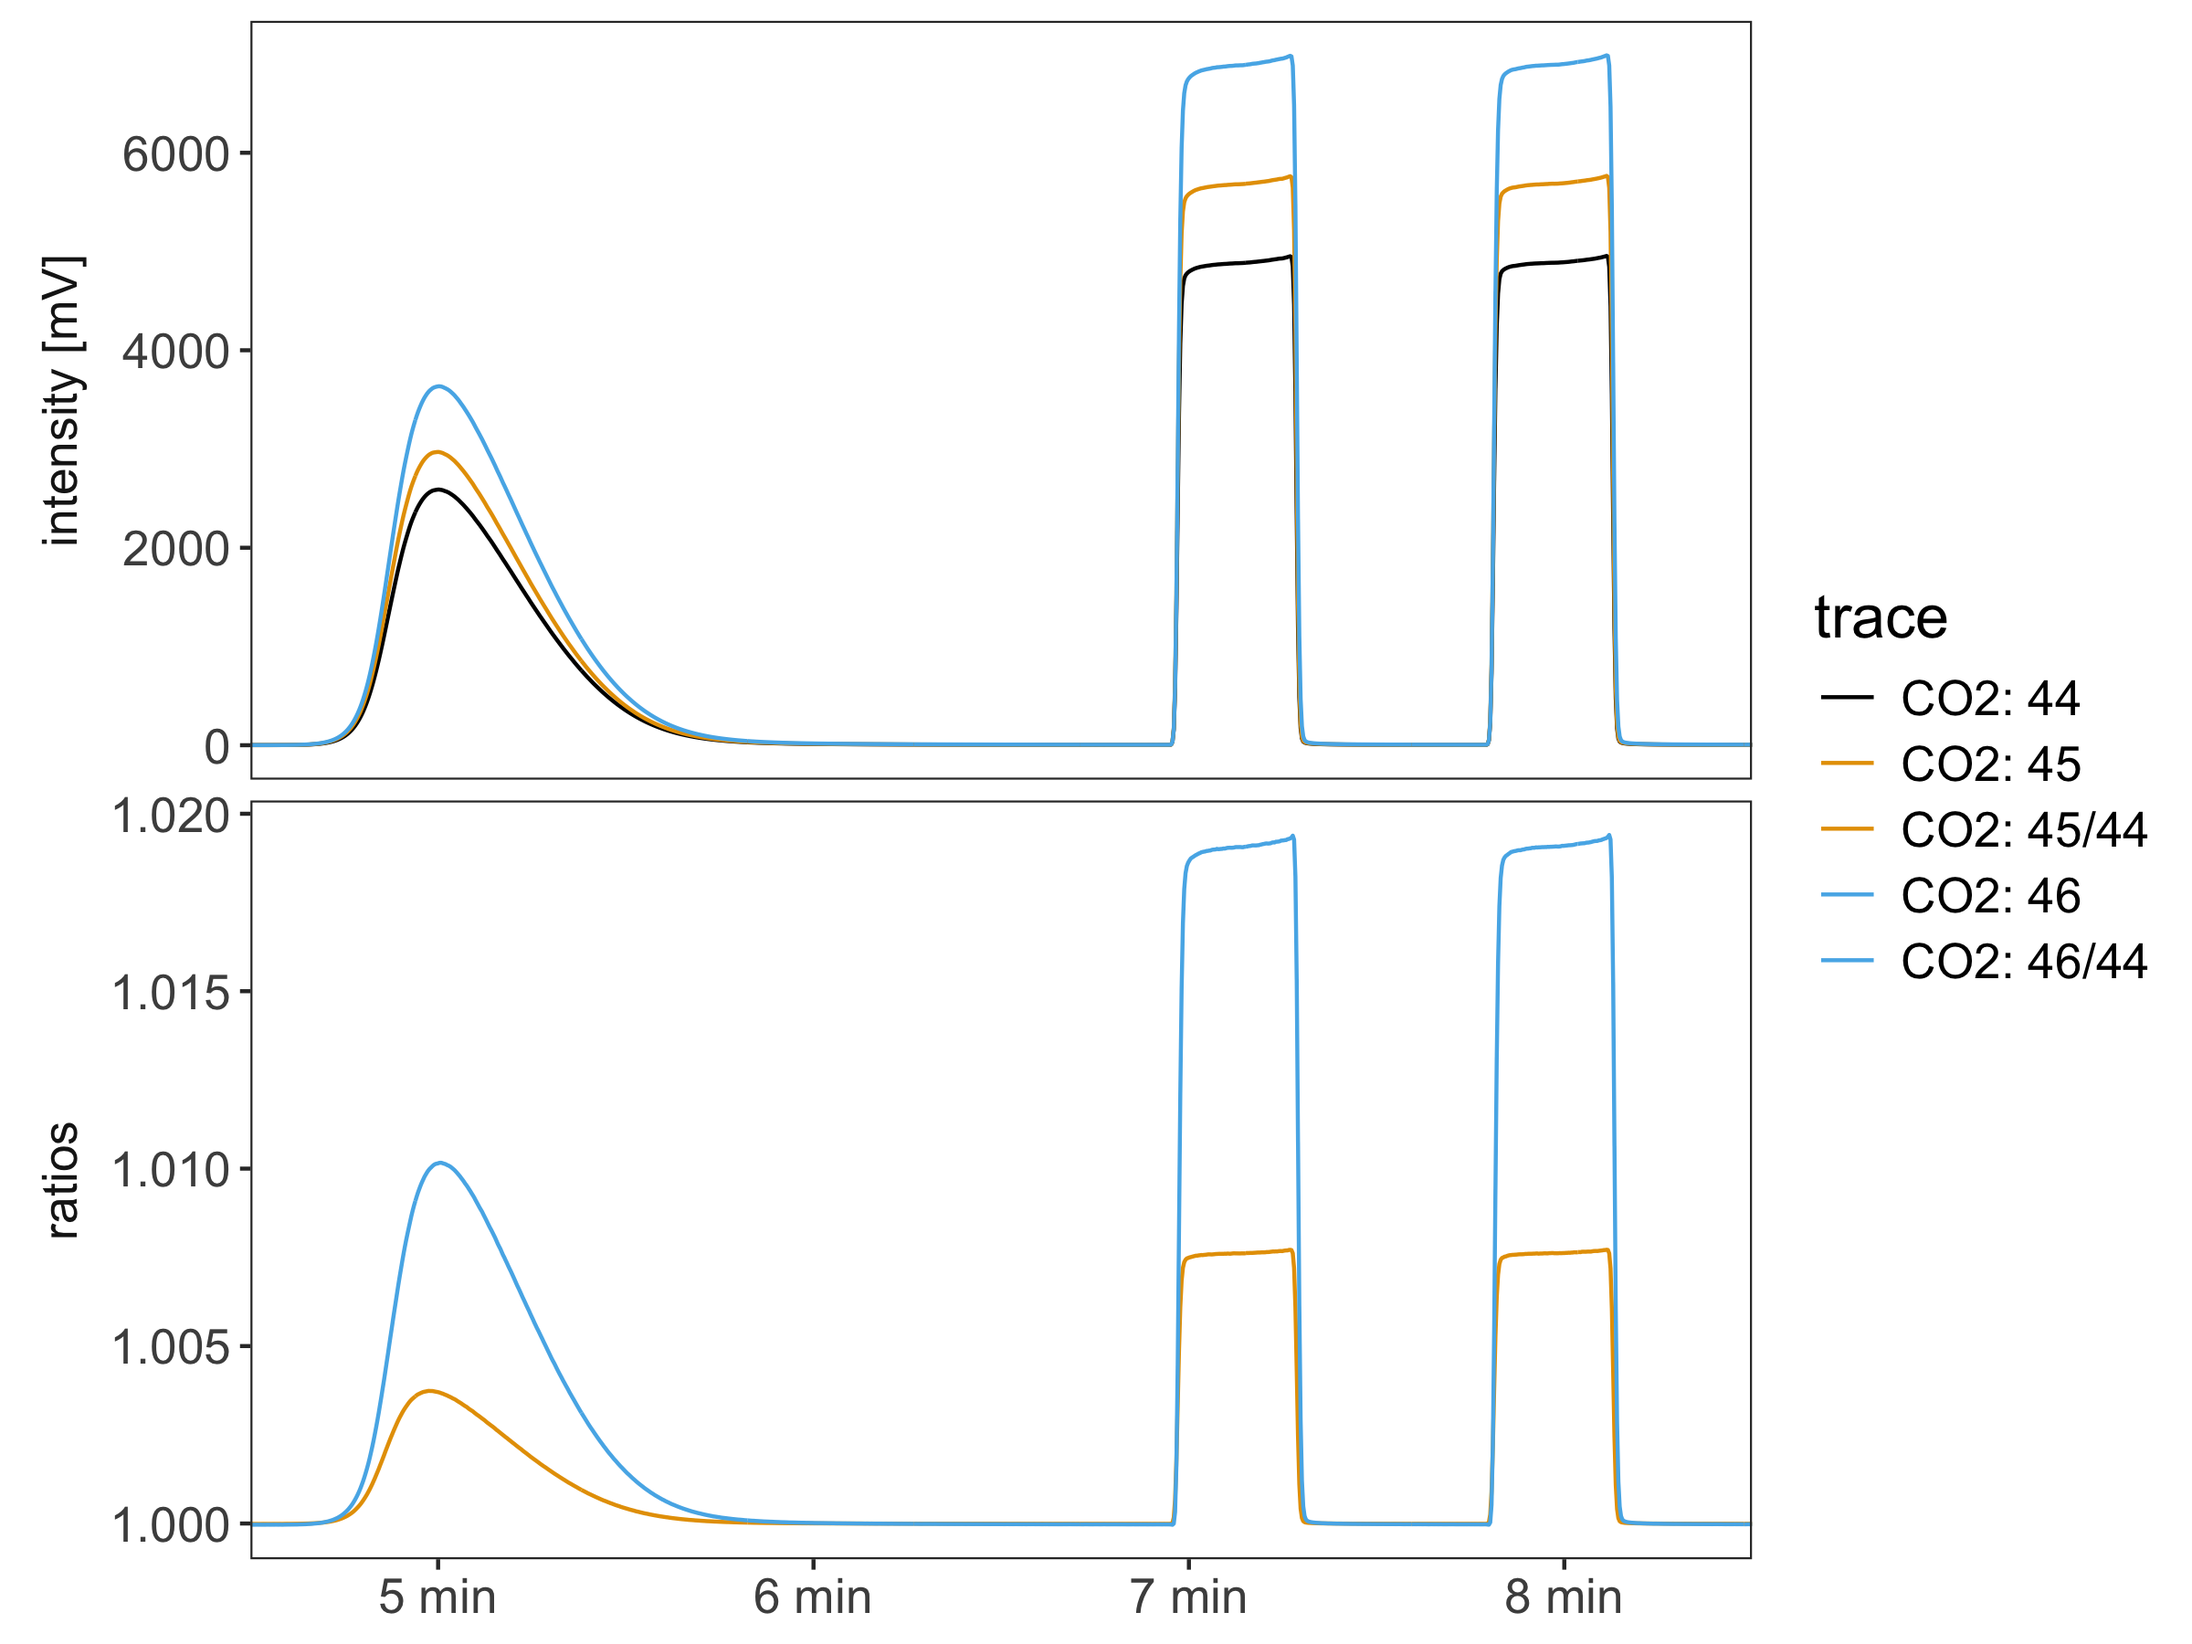
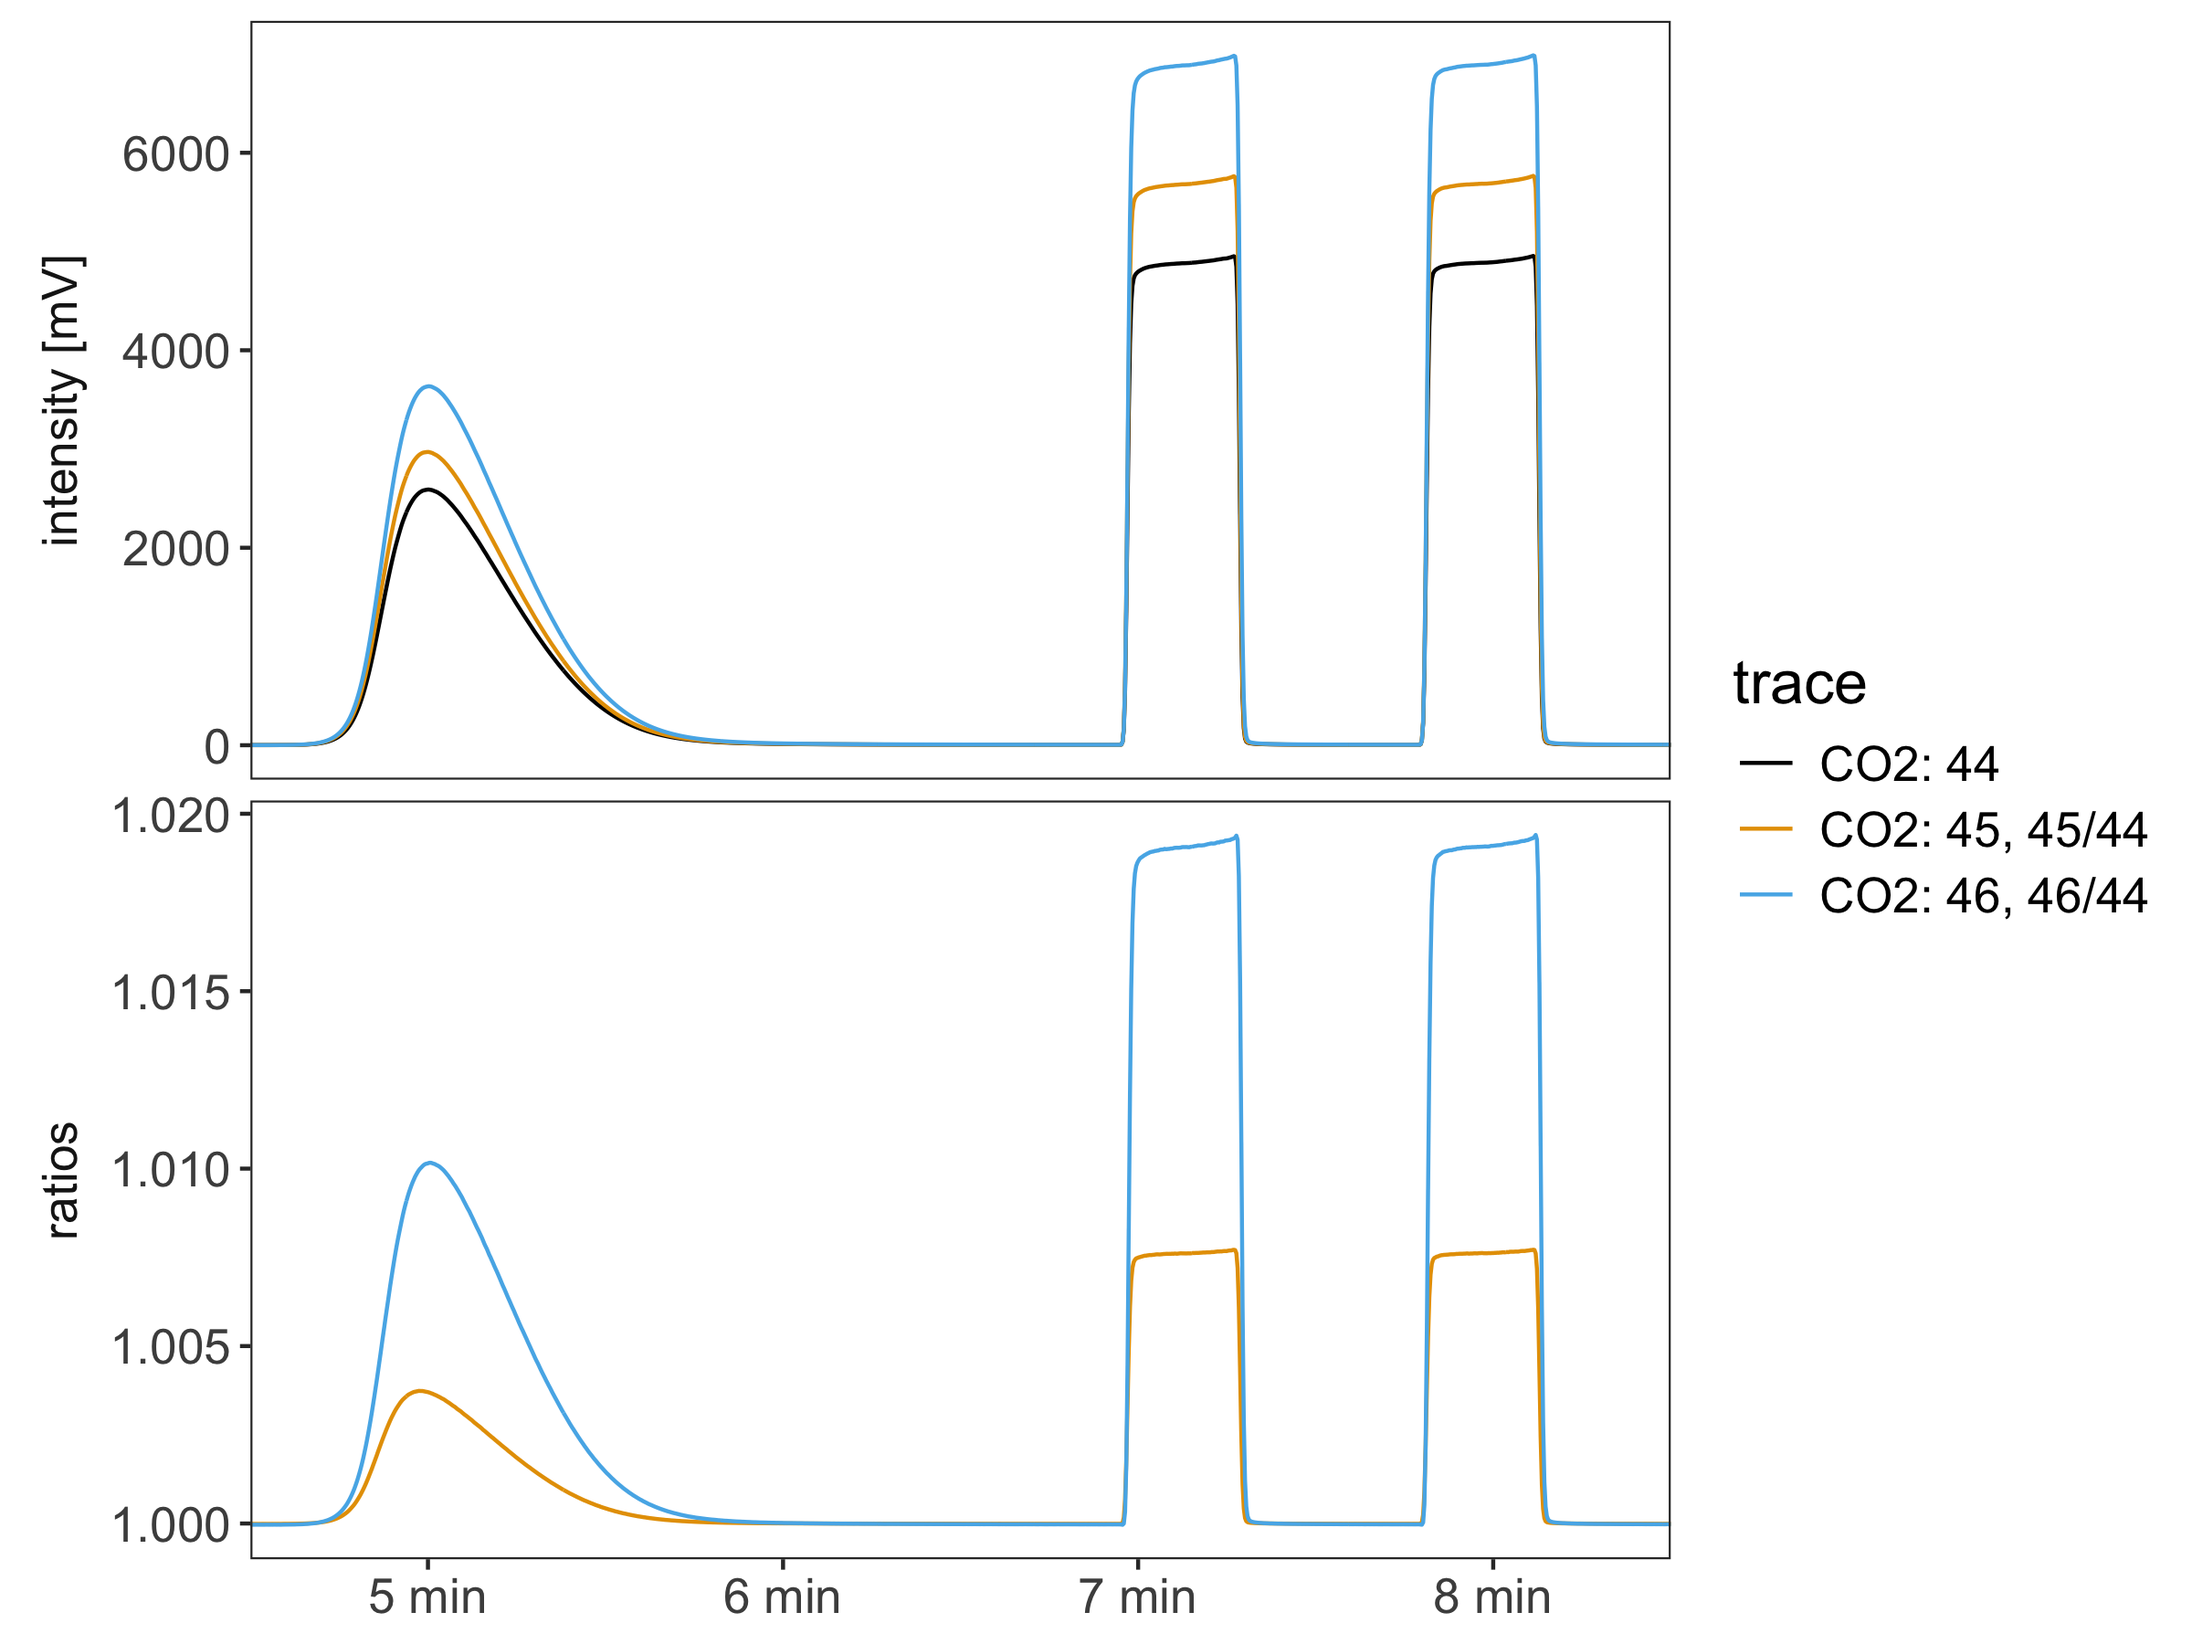
update documentation

diff --git a/pkgdown/index.md b/pkgdown/index.md
@@ -137,8 +137,8 @@ file_paths <- data_folder |> ir_find_dual_inlet()
 isofiles <- file_paths |> ir_read_isofiles()
 ```
 
-<PRE class="fansi fansi-message"><CODE><span style='color: #00BB00;'>✔</span> <span style='color: #B2B2B2;'>[97ms]</span> <span style='font-weight: bold;'>ir_extract_isofiles()</span> finished extracting 1 file/archive
-</CODE></PRE><PRE class="fansi fansi-message"><CODE><span style='color: #00BB00;'>✔</span> <span style='color: #B2B2B2;'>[199ms]</span> <span style='font-weight: bold;'>ir_read_isofiles()</span> finished reading 1 isotope data file/archive
+<PRE class="fansi fansi-message"><CODE><span style='color: #00BB00;'>✔</span> <span style='color: #B2B2B2;'>[94ms]</span> <span style='font-weight: bold;'>ir_extract_isofiles()</span> finished extracting 1 file/archive
+</CODE></PRE><PRE class="fansi fansi-message"><CODE><span style='color: #00BB00;'>✔</span> <span style='color: #B2B2B2;'>[188ms]</span> <span style='font-weight: bold;'>ir_read_isofiles()</span> finished reading 1 isotope data file/archive
 </CODE></PRE>
 
 ``` r
@@ -160,7 +160,7 @@ isofiles
 dataset <- isofiles |> ir_aggregate_isofiles("V")
 ```
 
-<PRE class="fansi fansi-message"><CODE><span style='color: #00BB00;'>✔</span> <span style='color: #B2B2B2;'>[40ms]</span> <span style='font-weight: bold;'>ir_aggregate_isofiles()</span> aggregated <span style='color: #0000BB;'>metadata</span> (1) and <span style='color: #0000BB;'>cycles</span> (102,
+<PRE class="fansi fansi-message"><CODE><span style='color: #00BB00;'>✔</span> <span style='color: #B2B2B2;'>[55ms]</span> <span style='font-weight: bold;'>ir_aggregate_isofiles()</span> aggregated <span style='color: #0000BB;'>metadata</span> (1) and <span style='color: #0000BB;'>cycles</span> (102,
 <span style='color: #00BB00;'>intensity</span> in <span style='color: #BB00BB;'>V</span>) from 1 file using the <span style='font-weight: bold; font-style: italic;'>standard</span> aggregator
 </CODE></PRE>
 
@@ -190,7 +190,7 @@ library(ggplot2)
 dataset |>
   ir_filter_metadata(file_name == "caf_dual_inlet_example") |>
   ir_calculate_ratios() |>
-  ir_plot_dual_inlet(mass = c(44:48)) +
+  ir_plot_dual_inlet(mass = 44:48, ratio = c("45/44", "46/44")) +
   # use ggplot2 to modify with custom theming (or any other ggplot elements)
   theme(strip.text = element_text(size = 30))
 ```
@@ -216,9 +216,9 @@ ir_export_to_excel(
 ```
 
 <PRE class="fansi fansi-message"><CODE><span style='color: #00BB00;'>✔</span> <span style='color: #B2B2B2;'>[2ms]</span> <span style='font-weight: bold;'>ir_get_data()</span> retrieved 1 records from <span style='color: #0000BB;'>metadata</span>
-</CODE></PRE><PRE class="fansi fansi-message"><CODE><span style='color: #00BB00;'>✔</span> <span style='color: #B2B2B2;'>[4ms]</span> <span style='font-weight: bold;'>ir_get_data()</span> retrieved 102 records from the combination of <span style='color: #0000BB;'>metadata</span>
+</CODE></PRE><PRE class="fansi fansi-message"><CODE><span style='color: #00BB00;'>✔</span> <span style='color: #B2B2B2;'>[3ms]</span> <span style='font-weight: bold;'>ir_get_data()</span> retrieved 102 records from the combination of <span style='color: #0000BB;'>metadata</span>
 (1) and <span style='color: #0000BB;'>cycles</span> (102) via <span style='color: #00BB00;'>uidx</span> and <span style='color: #00BB00;'>analysis</span>
-</CODE></PRE><PRE class="fansi fansi-message"><CODE><span style='color: #00BB00;'>✔</span> <span style='color: #B2B2B2;'>[265ms]</span> <span style='font-weight: bold;'>ir_export_to_excel()</span> exported 1 row of <span style='color: #00BB00;'>metadata</span> and 102 rows of
+</CODE></PRE><PRE class="fansi fansi-message"><CODE><span style='color: #00BB00;'>✔</span> <span style='color: #B2B2B2;'>[407ms]</span> <span style='font-weight: bold;'>ir_export_to_excel()</span> exported 1 row of <span style='color: #00BB00;'>metadata</span> and 102 rows of
 <span style='color: #00BB00;'>cycles</span> to <span style='color: #0000BB;'>my_export.xlsx</span>
 </CODE></PRE>
 

diff --git a/README.md b/README.md
@@ -153,9 +153,9 @@ file_paths <- data_folder |> ir_find_dual_inlet()
 isofiles <- file_paths |> ir_read_isofiles()
 ```
 
-    > ✔ [122ms] ir_extract_isofiles() finished extracting 1 file/archive
+    > ✔ [112ms] ir_extract_isofiles() finished extracting 1 file/archive
 
-    > ✔ [163ms] ir_read_isofiles() finished reading 1 isotope data file/archive
+    > ✔ [168ms] ir_read_isofiles() finished reading 1 isotope data file/archive
 
 ``` r
 # show information about the files
@@ -175,7 +175,7 @@ isofiles
 dataset <- isofiles |> ir_aggregate_isofiles("V")
 ```
 
-    > ✔ [39ms] ir_aggregate_isofiles() aggregated metadata (1) and cycles (102,
+    > ✔ [38ms] ir_aggregate_isofiles() aggregated metadata (1) and cycles (102,
     > intensity in V) from 1 file using the standard aggregator
 
 ``` r
@@ -205,7 +205,7 @@ library(ggplot2)
 dataset |>
   ir_filter_metadata(file_name == "caf_dual_inlet_example") |>
   ir_calculate_ratios() |>
-  ir_plot_dual_inlet(mass = c(44:48)) +
+  ir_plot_dual_inlet(mass = 44:48, ratio = c("45/44", "46/44")) +
   # use ggplot2 to modify with custom theming (or any other ggplot elements)
   theme(strip.text = element_text(size = 30))
 ```
@@ -240,7 +240,7 @@ ir_export_to_excel(
     > ✔ [3ms] ir_get_data() retrieved 102 records from the combination of metadata
     > (1) and cycles (102) via uidx and analysis
 
-    > ✔ [206ms] ir_export_to_excel() exported 1 row of metadata and 102 rows of
+    > ✔ [194ms] ir_export_to_excel() exported 1 row of metadata and 102 rows of
     > cycles to 'my_export.xlsx'
 
 ### Bonus: explore isofiles interactively
